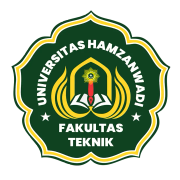
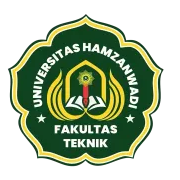
style: update image classes in Header and Footer for better responsiveness

diff --git a/components/shared/Header.tsx b/components/shared/Header.tsx
@@ -121,7 +121,7 @@ export default function Header() {
                   fill
                   sizes="40px"
                   priority
-                  className="rounded-xl object-cover group-hover:scale-105 transition-transform duration-300"
+                  className="rounded-xl object-contain bg-transparent group-hover:scale-105 transition-transform duration-300"
                 />
               </div>
               <div className="min-w-0">

diff --git a/components/shared/Footer.tsx b/components/shared/Footer.tsx
@@ -38,7 +38,7 @@ export default function Footer() {
                   alt="Logo Fakultas Teknik"
                   fill
                   sizes="40px"
-                  className="rounded-xl object-cover"
+                   className="rounded-xl object-contain bg-transparent"
                 />
               </div>
               <div>
